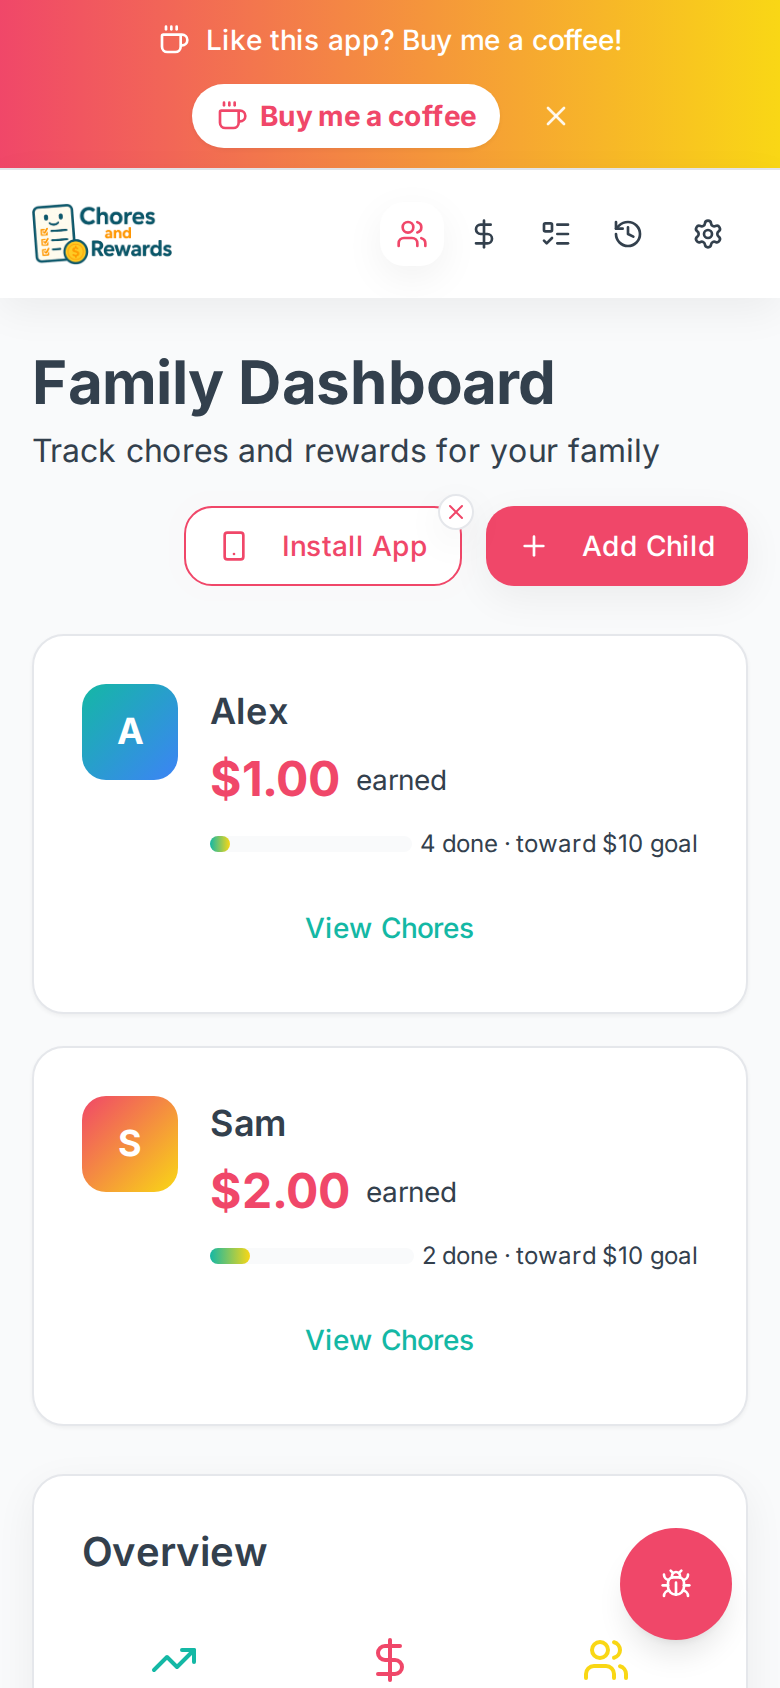
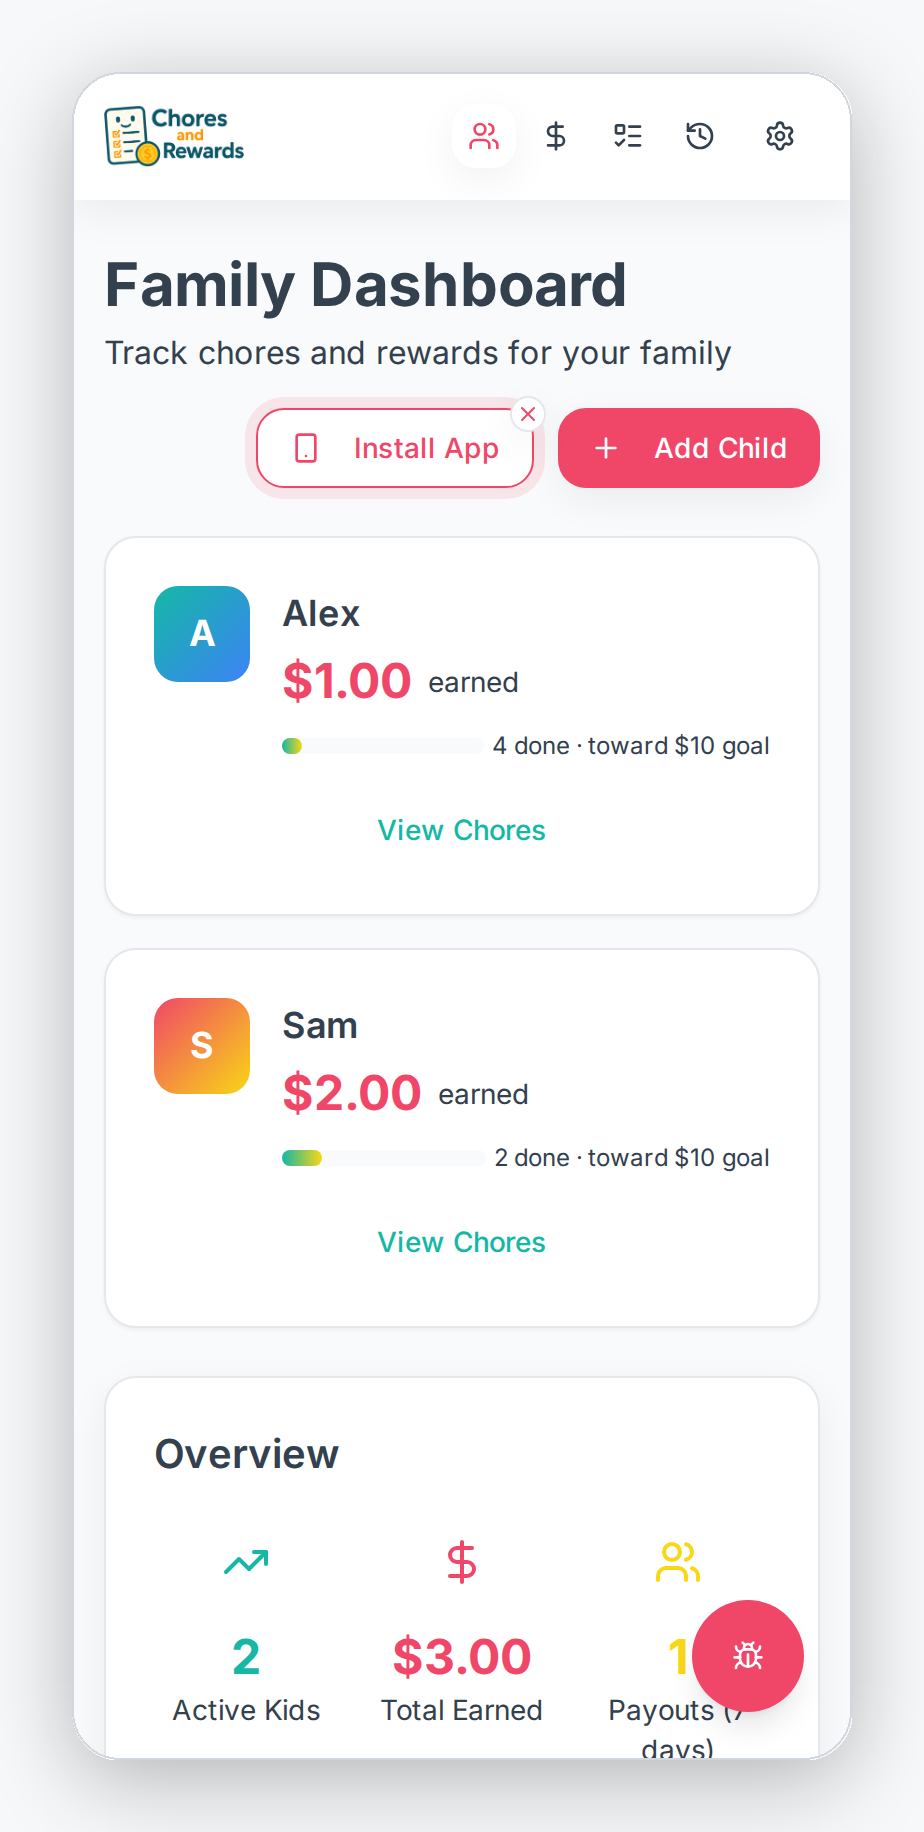
docs(readme): professional screenshot presentation, theme-aware
Retaken captures (support banner dismissed, toasts settled) baked into
presentation cards: rounded corners, hairline border and a soft shadow on
a neutral canvas, in light and dark variants selected via the picture
element with prefers-color-scheme, GitHub's own recommended pattern, so
the framing never fights the reader's theme. Laid out centred at 30
percent width per image.

diff --git a/README.md b/README.md
@@ -97,11 +97,23 @@ minutes. Detail in [`.github/DEPLOYMENT.md`](.github/DEPLOYMENT.md) and
 
 ## Screenshots
 
-| Dashboard | A child's chores | Payout history |
-|---|---|---|
-| ![Family dashboard listing two children with running dollar totals, real completion counts, progress toward a ten dollar goal, and Install App and Add Child buttons](docs/images/dashboard.png) | ![A child's chore list with dollar values, favourite, edit and delete controls, and a completion toast offering Undo](docs/images/child-chores.png) | ![Payout history showing a paid-out amount with the child's name and time, above the app footer](docs/images/history.png) |
+<p align="center">
+  <picture>
+    <source media="(prefers-color-scheme: dark)" srcset="docs/images/dashboard-dark.png">
+    <img src="docs/images/dashboard.png" width="30%" alt="Family dashboard listing two children with running dollar totals, real completion counts, progress toward a ten dollar goal, and Install App and Add Child buttons">
+  </picture>
+  <picture>
+    <source media="(prefers-color-scheme: dark)" srcset="docs/images/child-chores-dark.png">
+    <img src="docs/images/child-chores.png" width="30%" alt="A child's chore list with dollar values, favourite, edit and delete controls, and the running total earned">
+  </picture>
+  <picture>
+    <source media="(prefers-color-scheme: dark)" srcset="docs/images/history-dark.png">
+    <img src="docs/images/history.png" width="30%" alt="Payout history showing a paid-out amount with the child's name and time, above the app footer">
+  </picture>
+</p>
 
-Captured from the real app at a phone viewport with seeded example data.
+Captured from the real app at a phone viewport with seeded example data; each image adapts to
+GitHub's light or dark theme.
 
 ## Licence
 
